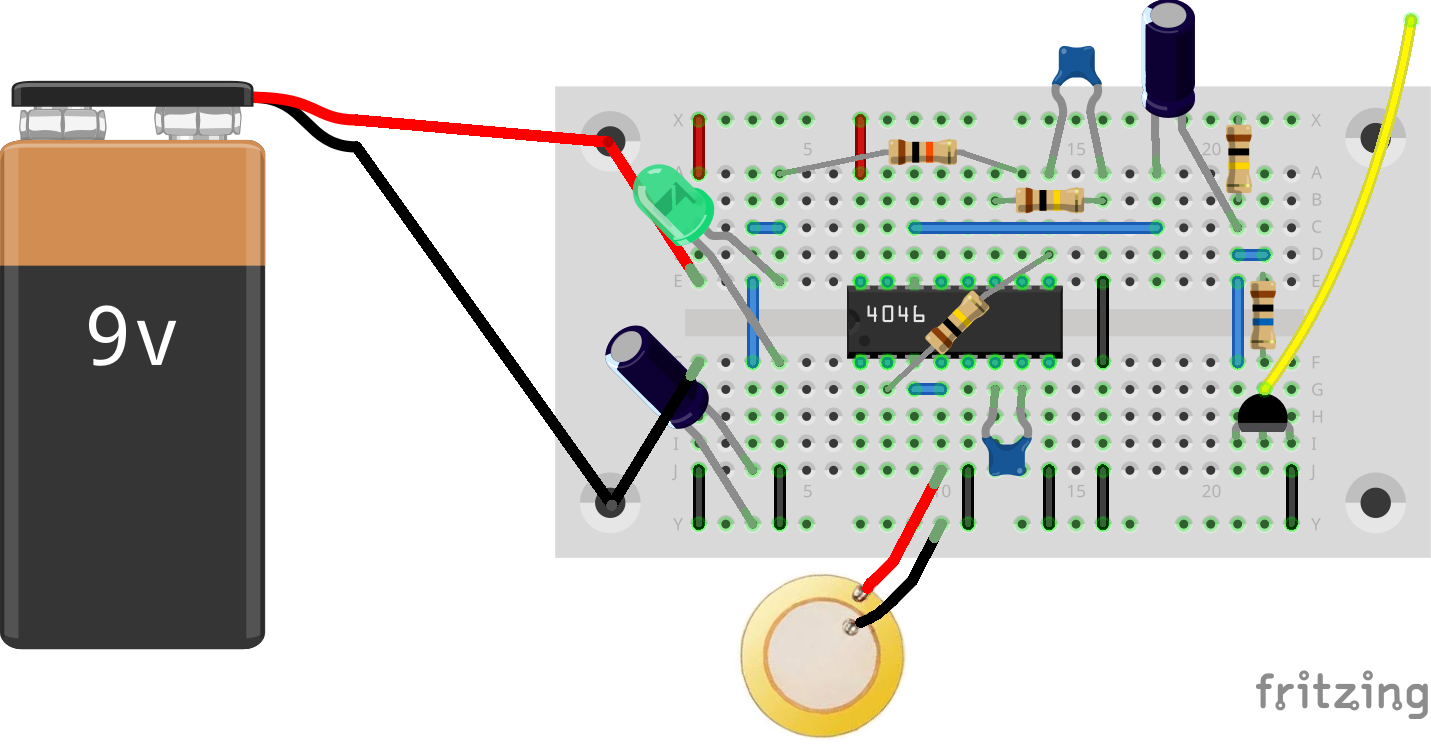
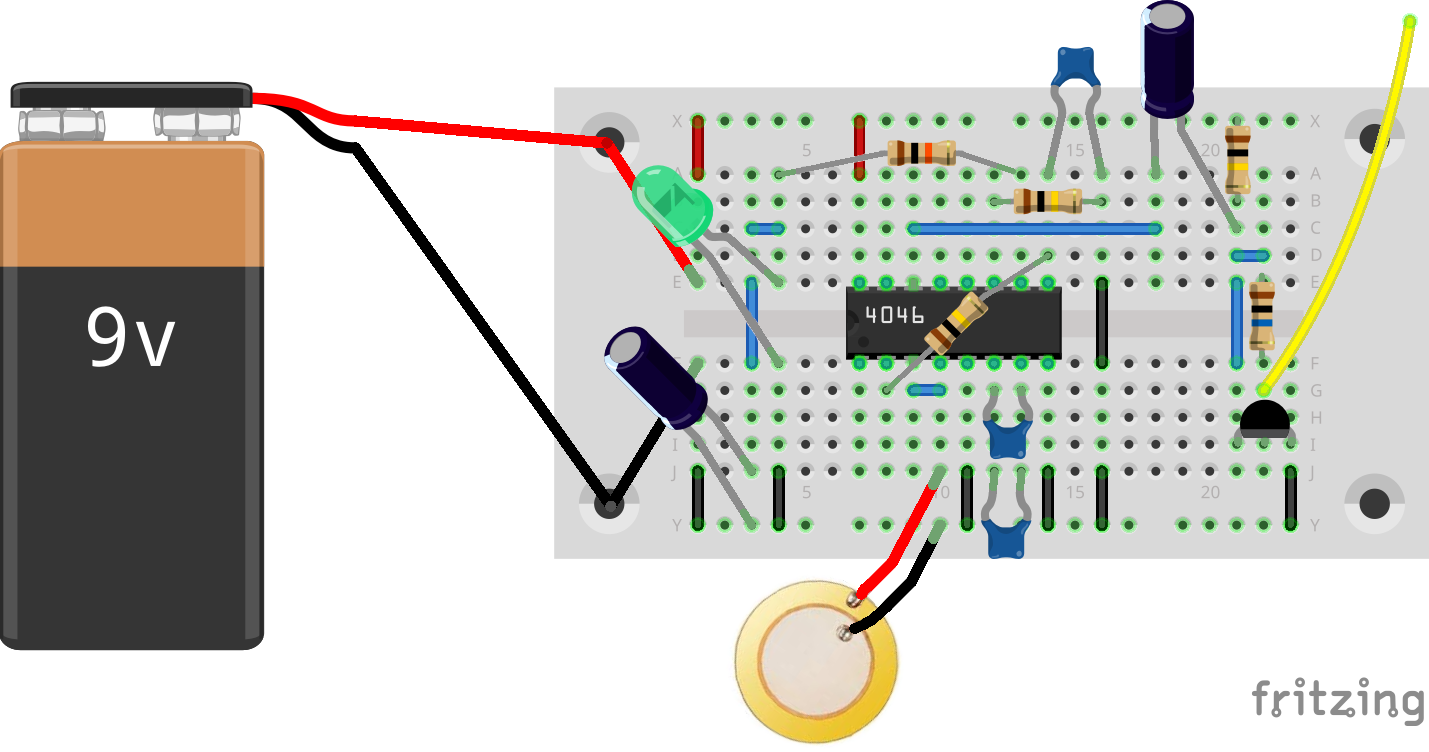
22. und 23. Dezember.

diff --git a/adventskalender/src/main/webapp/2023/22_dez/description.html b/adventskalender/src/main/webapp/2023/22_dez/description.html
@@ -1,41 +1,74 @@
 <!DOCTYPE html>
 <html xmlns="http://www.w3.org/1999/xhtml" lang="de">
 
-<head>
-	<meta charset="UTF-8">
-	</meta>
-	<meta name="viewport" content="width=device-width, initial-scale=1">
-	</meta>
-	<title>Elektronik Adventskalender: 50 Hertz PLL</title>
-	<base href="../../"></base>
-	<link rel="stylesheet" href="css/stylesheet.css">
-	</link>
-</head>
+    <head>
+        <meta charset="UTF-8">
+        </meta>
+        <meta name="viewport" content="width=device-width, initial-scale=1">
+        </meta>
+        <title>Elektronik Adventskalender: 50 Hertz PLL</title>
+        <base href="../../">
+        </base>
+        <link rel="stylesheet" href="css/stylesheet.css">
+        </link>
+    </head>
 
-<body>
-	<header class="content-part">Dies ist ein Teil vom <a href="index.html">Elektronik-Adventskalender</a></header>
-	<div class="content-container active">
-		<h2>22. Dezember: 50 Hz PLL</h2>
-		<p>
-			@Todo
-		</p>
-		<p>
-
-		</p>
-		<p>
-		<div class="image-container">
-			<img src="./2023/22_dez/circuit_1.png" aria-label="Bild vom Schaltkreis"></img>
-		</div>
-		</p>
-        <p>
-
-        </p>
-        <p>
-        <div class="image-container">
-            <img src="./2023/22_dez/circuit_2.png" aria-label="Bild vom Schaltkreis"></img>
+    <body>
+        <header class="content-part">Dies ist ein Teil vom <a href="index.html">Elektronik-Adventskalender</a></header>
+        <div class="content-container active">
+            <h2>22. Dezember: 50 Hz PLL</h2>
+            <p>
+                In Europa bringen uns die Stromnetze einen Wechselstrom mit einer Frequenz von 50 Hz ins Haus. Diese
+                Netzfrequenz ist in der Nähe von elektrischen Geräten allgegenwärtig. Sie ist zum einen sehr genau, so
+                dass sogar Uhren damit laufen, z.B. im Backofen oder in der Mikrowelle. Zum anderen kann sie beim Aufbau
+                von elektronischen Schaltung mächtig als Störsignal nerven.
+            </p>
+            <p>
+                Die heutige Schaltung ist ein 50 Hz Empfänger. Der Transistor ist als empfindlicher Verstärker
+                geschaltet. Setze einen der langen Schaltdrahtstücke an die Basis vom Transistor, im Bild gelb
+                gezeichnet. Dieser Draht wirkt als Antenne. Wenn Du ihn in die Nähe von einem 50 Hz Sender hältst, wird
+                der Transistor das Signal etwa 500-fach verstärkt über den Elko an das SIGNAL_IN vom Phasencomparator
+                schicken.
+            </p>
+            <p>
+                Der VCO ist so beschaltet, dass er ungefährt zwischen 0 und 100 Hz schwingen kann, also so dass die 50
+                Hz etwa die Mittenfrequenz ist. Dazu musste ich zwei Kondensatoren parallel an PIN 6 und 7 setzen. Du
+                kann hier versuchen, mit den optionalen Bauteilen der letzten Tage zu optimieren. Diese Frequenzen
+                kannst Du austesten, indem Du den PIN 9 mal mit (+) oder mit PIN 13 verbindest. Vielleicht kannst Du
+                dazu die App phyphox nehmen, allerdings funktioniert deren Tongenerator bei den tiefen Frequenzen nicht
+                sehr zuverlässig.
+            </p>
+            <p>
+                Die grüne LED zeigt die Steuerspannung für den VCO an. Normalerweise flackert sie ja ein wenig, dies
+                wird heute durch einen weiteren ELKO herausgefiltert.
+            </p>
+            <p>
+            <div class="image-container">
+                <img src="./2023/22_dez/circuit.png" aria-label="Bild vom Schaltkreis"></img>
+            </div>
+            </p>
+            <p>
+                Wenn Du die Antenne nun in die Nähe von einem elektrischen Gerät hälst, hörst Du das typische 50 Hz
+                Brummen. Die grüne LED sollte mit mittlerer Helligkeit ohne groß zu flackern leuchten. Dann ist der PLL
+                auf die 50 Hz eingerastet.
+            </p>
+            <p>
+                Dankbare Geräte bei mir sind übrigens: LED-Glühbirnen oder meine Kaffeemaschine sowie ausgerechnet die
+                Lampe an meinem Labor-Tisch. Die werde ich wohl bei empfindlichen Aufbauten demnächst besser vom
+                Netz trennen.
+            </p>
+            <p>
+            <div class="image-container">
+                <img src="./2023/22_dez/oszi.png" aria-label="Bild vom Oszilloskop"></img>
+            </div>
+            </p>
+            <p>
+                Am Oszilloskop kann man das Einrasten schön sehen (ich hab ja meine Lampe). Blau ist das 50 Hz
+                "Stör"-Signal, abgegriffen an PIN 13. Und gelb ist der Ausgang vom VCO, also PIN 4. Der PLL macht aus
+                dem etwas schmutzigen Einganssignal ein sauberes digitales. Im Prinzip könnte man dies nun als Basis von
+                z.B. einer Uhr nehmen.
+            </p>
         </div>
-        </p>
-	</div>
-</body>
+    </body>
 
 </html>

diff --git a/adventskalender/src/main/webapp/2023/23_dez/description.html b/adventskalender/src/main/webapp/2023/23_dez/description.html
@@ -1,33 +1,63 @@
 <!DOCTYPE html>
 <html xmlns="http://www.w3.org/1999/xhtml" lang="de">
 
-<head>
-	<meta charset="UTF-8">
-	</meta>
-	<meta name="viewport" content="width=device-width, initial-scale=1">
-	</meta>
-	<title>Elektronik Adventskalender: Fernsteuerung</title>
-	<base href="../../"></base>
-	<link rel="stylesheet" href="css/stylesheet.css">
-	</link>
-</head>
+    <head>
+        <meta charset="UTF-8">
+        </meta>
+        <meta name="viewport" content="width=device-width, initial-scale=1">
+        </meta>
+        <title>Elektronik Adventskalender: Fernsteuerung</title>
+        <base href="../../">
+        </base>
+        <link rel="stylesheet" href="css/stylesheet.css">
+        </link>
+    </head>
 
-<body>
-	<header class="content-part">Dies ist ein Teil vom <a href="index.html">Elektronik-Adventskalender</a></header>
-	<div class="content-container active">
-		<h2>23. Dezember: Fernsteuerung</h2>
-		<p>
-			@Todo
-		</p>
-		<p>
-
-		</p>
-		<p>
-		<div class="image-container">
-			<img src="./2023/23_dez/circuit.png" aria-label="Bild vom Schaltkreis"></img>
-		</div>
-		</p>
-	</div>
-</body>
+    <body>
+        <header class="content-part">Dies ist ein Teil vom <a href="index.html">Elektronik-Adventskalender</a></header>
+        <div class="content-container active">
+            <h2>23. Dezember: Fernsteuerung</h2>
+            <p>
+                Achtung, wenn Du Probleme mit flackernden Lichtern hast: Sei heute vorsichtig!
+            </p>
+            <p>
+                Der PLL wandelt eine Frequenz in eine Spannung um, und dies führt zu einer weiteren Anwendung: die
+                Signalübertragung über Frequenzmodulation. Viele Geräte nutzen diese Technik, z.B. IR-Fernbedienungen,
+                Computer-Modems oder das UKW-Radio.
+            </p>
+            <p>
+                Installiere Dir auf einem Smartphone eine Stroboskop-App, mit welcher Du die Taschenlampe vom Handy zum
+                flackern bringen kannst, und zwar bei einstellbarer Frequenz. Ich nutze die App "Stroboskop" von
+                "Zidsoft". Mein Handy ist schon etwas betagt, es schafft eine saubere Blink-Frequenz bis etwa 30 Hz.
+            </p>
+            <p>
+                Auf dem Steckboard baust Du wieder den Lichtempfänger auf, den Du von der Lichtschranke am 17. Dezember
+                kennst. Die gelbe LED ist wieder "verkehrt" eingebaut und dient als Licht-Sensor. Nun aber wird das
+                Ganze mit dem geschlossenen Loop verbunden, der auf die Frequenz des Blinklichts einrasten wird.
+            </p>
+            <p>
+                Der VCO ist gegenüber gestern etwas gebremst. Bei mir blinkt und knattert er nun bis ca 30 Hz. Das
+                Smartphone lege ich auf eine kleine Kiste, so dass es mit der Taschenlampe direkt über der gelben LED
+                liegt und dort hinein leuchtet.
+            </p>
+            <p>
+            <div class="image-container">
+                <img src="./2023/23_dez/circuit.png" aria-label="Bild vom Schaltkreis"></img>
+            </div>
+            </p>
+            <p>
+                Mit der Stroboskop-App kannst Du nun die Frequenzen bis ca 30 Hz durchtesten. In einem bestimmten
+                Bereich leuchtet die grüne LED sehr gleichmäßig. In diesem Bereich rastet der PLL ein. Bei mir sind das
+                ca 15 Hz - knapp unter 30 Hz. Bei 15 Hz leuchtet die grüne LED kaum sichtbar, aber gleichmäßig. Und bei
+                25 Hz ist sie deutlich hell. Bei Dir ist der Bereich sicherlich etwas verschoben.
+            </p>
+            <p>
+                Dies ist eine "Fernsteuerung" für die LED: bei der unteren Frequenz vom Einrast-Bereich ist sie fast
+                aus, im oberen Bereich ist sie an. Damit kannst Du Dir ein Kommunikationsprotokoll für digitale Daten
+                überlegen. Niedrige Frequenz ist "0", hohe Frequenz "1" und eine mittlere Frequenz kann als Trennzeichen
+                dienen.
+            </p>
+        </div>
+    </body>
 
 </html>

diff --git a/adventskalender/src/main/webapp/2023/04_dez/description.html b/adventskalender/src/main/webapp/2023/04_dez/description.html
@@ -18,8 +18,8 @@
         <div class="content-container active">
             <h2>4. Dezember: Zeitschaltuhr</h2>
             <p>
-                Der Slogan "Jeden Tag ein Puzzle aus elektronischen Bauteilen" ist durchaus ernst gemeint. Da wir beim
-                Schreiben dieser Zeilen nicht ganz genau wissen können, was für Teile Du besorgt hast, können sich
+                Der Slogan "Jeden Tag ein Puzzle aus elektronischen Bauteilen" ist durchaus ernst gemeint. Da ich beim
+                Schreiben dieser Zeilen nicht ganz genau wissen kann, was für Teile Du besorgt hast, können sich
                 die Schaltungen durchaus ein wenig unterscheiden. Also darfst Du ab und zu ein wenig probieren
                 (puzzeln), bis es wirklich so wie beschrieben funktioniert.
             </p>
